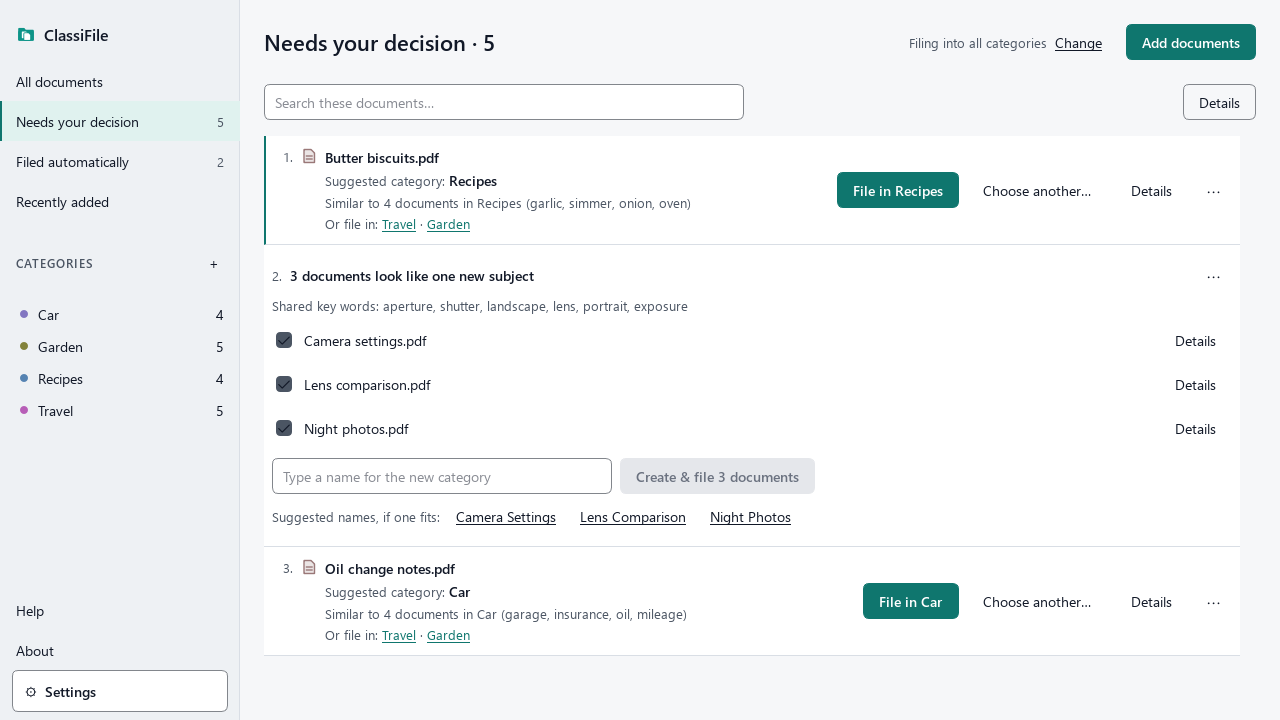
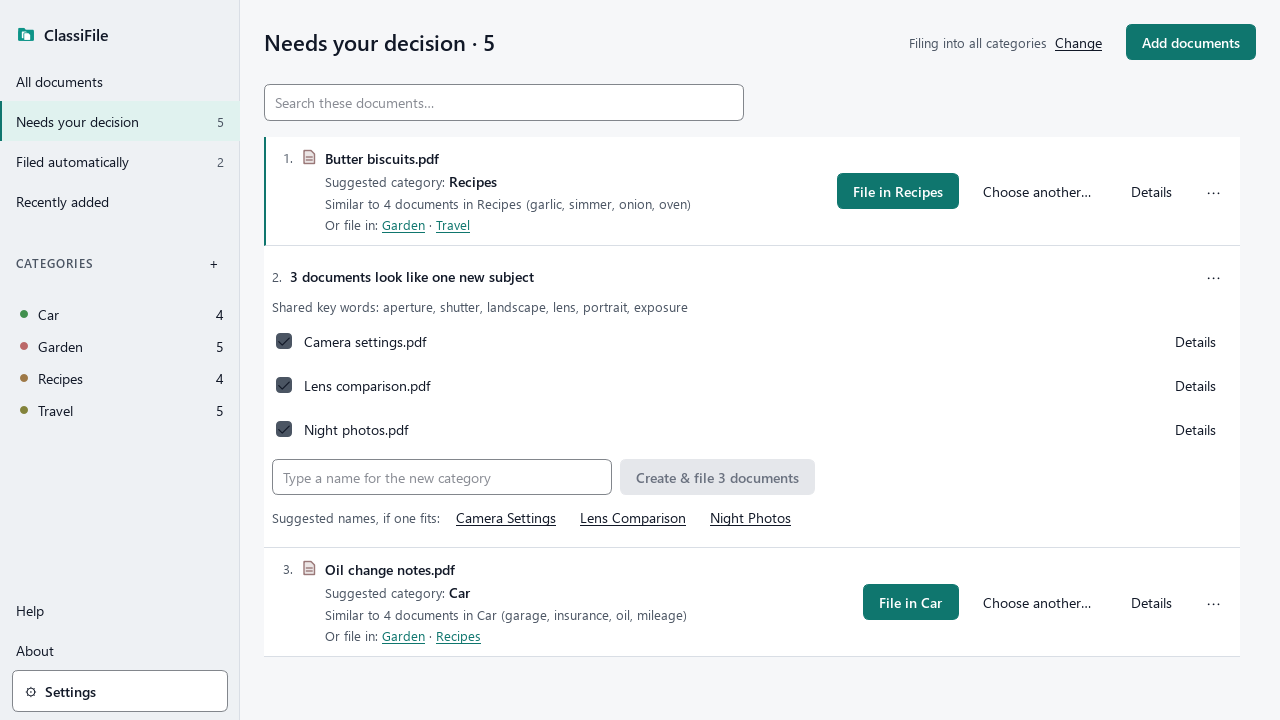
Record 2.11 (text fills its card), distinct category colours, current screenshots
- A10: every page uses the full window width, and text fills its card;
  "readable line length" withdrawn. Authorized by the owner.
- Category dots take their colour from the catalog's creation order, so the
  first eight categories always differ (the hash of the random id often
  gave two the same). A rename keeps the colour.
- README screenshots rendered again from the made-up library.
- Local agent tooling (.agents/, .claude/, AGENTS.md, skills-lock.json) is
  ignored.

diff --git a/classifile/app/models.py b/classifile/app/models.py
@@ -76,7 +76,7 @@ class DocumentModel(RowsModel):
             return (r["file_name"], r["category"] or "—", status_word(status), r["date"])[column]
         if role == Qt.DecorationRole:
             if column == 1:
-                return category_dot(r["category_id"]) if r.get("category_id") else None
+                return category_dot(r["category_slot"]) if r.get("category_slot") else None
             return format_icon(r["file_name"]) if column == 0 else status_icon(status) if column == 2 else None
         if role == Qt.ToolTipRole:
             return r["file_name"] if column == 0 else (r.get("status_reason") or None) if column == 2 else None
@@ -161,7 +161,7 @@ class CategoryModel(RowsModel):
         if role == Qt.ToolTipRole:
             return r["name"] + ("\nNew (named by ClassiFile). Right-click to rename it." if r.get("new") else "")
         if role == Qt.DecorationRole and column == 0:
-            return category_dot(r["key"])           # the category's own colour, the same everywhere
+            return category_dot(r["slot"])          # the category's own colour, the same everywhere
         if role == Qt.TextAlignmentRole and column == 1:
             return int(Qt.AlignRight | Qt.AlignVCenter)
         if role == Qt.ForegroundRole and column == 1:

diff --git a/classifile/catalog/db.py b/classifile/catalog/db.py
@@ -373,7 +373,7 @@ class Catalog:
             " JOIN snapshots s ON s.document_id = d.id WHERE d.id = ?", doc_id)
 
     _FILED = ("SELECT d.*, s.sha256, s.file_name, s.imported_at, s.source_path, c.id AS category_id,"
-              " c.name AS category, c.app_named, m.provenance, m.auto_json, m.role, (SELECT group_concat(category_id)"
+              " c.rowid AS category_slot, c.name AS category, c.app_named, m.provenance, m.auto_json, m.role, (SELECT group_concat(category_id)"
               " FROM memberships WHERE document_id = d.id AND role = 'secondary' AND status = 'active') AS also_ids,"
               " p.path AS copy_path,"
               " p.status AS copy_status, p.updated_at AS filed_at FROM documents d"
@@ -568,7 +568,7 @@ class Catalog:
 
     # -- categories --------------------------------------------------------------------------
     def categories(self):
-        return self.all("SELECT * FROM categories WHERE deleted_at IS NULL ORDER BY name COLLATE NOCASE, id")
+        return self.all("SELECT *, rowid AS slot FROM categories WHERE deleted_at IS NULL ORDER BY name COLLATE NOCASE, id")
 
     def category_counts(self):
         """{category id: documents in it}."""

diff --git a/classifile/app/widgets.py b/classifile/app/widgets.py
@@ -1,6 +1,5 @@
 """Small shared widgets and the visual style of the main window."""
 import sys
-import zlib
 from pathlib import Path
 
 from PySide6.QtCore import (
@@ -454,15 +453,15 @@ def status_icon(status):
     return _ICONS[key]
 
 
-def category_color(cat_id):
-    """A category's colour: one of CATEGORY_COLORS, the same for that category always (from its id, so a rename
-    keeps it), readable on every surface of both themes."""
-    return CATEGORY_COLORS[zlib.crc32(str(cat_id).encode()) % len(CATEGORY_COLORS)]
+def category_color(slot):
+    """A category's colour: one of CATEGORY_COLORS, from its slot (the catalog's creation order, so a rename keeps
+    it and the first eight categories all differ), readable on every surface of both themes."""
+    return CATEGORY_COLORS[(slot - 1) % len(CATEGORY_COLORS)]
 
 
-def category_dot(cat_id):
+def category_dot(slot):
     """A small round dot in the category's colour, beside its name."""
-    colour = category_color(cat_id)
+    colour = category_color(slot)
     key = ("dot", colour)
     if key not in _ICONS:
         pix = QPixmap(ICON, ICON)

diff --git a/tests/test_theme.py b/tests/test_theme.py
@@ -119,8 +119,8 @@ def test_switching_the_theme_rebuilds_the_style_sheet_the_palette_and_the_icons(
         assert w.table.palette().text().color().name().upper() == t["text"]       # the Fusion lists too
         icon = widgets.status_icon("needs_decision").pixmap(16, 16).toImage()
         assert icon.pixelColor(8, 8).name().upper() == t["amber"]                 # drawn again in the new colours
-    assert widgets.category_dot("same id").cacheKey() and widgets.category_color("same id") == \
-        widgets.category_color("same id") in CATEGORY_COLORS                      # one colour per category, always
+    assert widgets.category_dot(3).cacheKey() and widgets.category_color(3) == widgets.category_color(3)
+    assert len({widgets.category_color(s) for s in range(1, 9)}) == 8 == len(CATEGORY_COLORS)  # the first 8 differ
     w.set_appearance("system")
     w.close()
 

diff --git a/classifile/app/main.py b/classifile/app/main.py
@@ -1006,7 +1006,7 @@ class MainWindow(QWidget):
         """The sidebar's categories with their counts, from two queries, updated in place. Returns the categories."""
         counts = self.org.catalog.category_counts()
         cats = self.org.catalog.categories()
-        self.cat_model.sync([{"key": c["id"], "name": c["name"], "count": counts.get(c["id"], 0),
+        self.cat_model.sync([{"key": c["id"], "name": c["name"], "count": counts.get(c["id"], 0), "slot": c["slot"],
                               "new": bool(c["app_named"])} for c in cats])
         self.cats_empty.setVisible(not cats)
         many = len(cats) >= FIND_CATEGORY_FROM

diff --git a/DECISION_RECORD.md b/DECISION_RECORD.md
@@ -1,6 +1,6 @@
 # Decision Record — ClassiFile (Offline Document Organizer)
 
-Version 2.10 · 2026-10-16
+Version 2.11 · 2026-10-19
 
 **Names**
 - **ClariFile:** the suite.
@@ -105,7 +105,7 @@ Version 2.10 · 2026-10-16
 
 **A10 [Requirement] Interface**
 - Categories, categorized documents, minimal status, and decision prompts when necessary.
-- For people other than the owner (2.9): a first-run tour of 3–4 short steps, a Help page and an About page (what ClassiFile is, how it works, privacy, the ClariFile suite and SummarEase, the version, licences and credits, the source link). Every page uses the full window width while text keeps a readable line length; the same Details panel is on every page that lists documents; Settings keeps technical details (matching versions, logs, version numbers) in a collapsed Advanced section.
+- For people other than the owner (2.9): a first-run tour of 3–4 short steps, a Help page and an About page (what ClassiFile is, how it works, privacy, the ClariFile suite and SummarEase, the version, licences and credits, the source link). Every page uses the full window width, and text fills its card (2.11); the same Details panel is on every page that lists documents; Settings keeps technical details (matching versions, logs, version numbers) in a collapsed Advanced section.
 - ClassiFile's scope is suggesting category names and filing documents. It offers no text viewing, copying or exporting; those belong to SummarEase (A11).
 
 **A11 [Requirement] Secondary summarizer: SummarEase (later project)**
@@ -555,3 +555,4 @@ Partial checkpoints are not the completed v1. Evaluation runs alongside developm
 - **2.8 (2026-10-15):** wording the user approved before the CP5 freeze, so the record says what the code does. A7: the update check (a new version replaces the one in use only if, on the full evaluation, it files no more documents wrongly at the level in use and puts the user's category first no less often; both results logged in Settings). B4: one evaluation (`tools.evaluate`) for every number about matching, with the owner's family ids kept in the catalog. B2: "Check these" (Keep here is recorded; nothing is moved by itself). D/CP4: the documented policy (E1) is not built for v1; E5–E7 run on their defaults (also noted under E5–E7). Authorized by the user.
 - **2.9 (2026-10-15):** v1 scope for friends and family, authorized by the user. A7: the first matching version is learned by itself too. B5 and the glossary: "Learn from my existing folders", with the user-example provenance; examples count toward the 3 documents of automatic filing (B2). A10: a first-run tour, Help and About pages, full-width pages with readable text, the same Details panel on every page that lists documents, and an Advanced section in Settings. Photos (JPG, PNG), a household test set and Burmese are v1.1 (docs/LAUNCH.md). Authorized by the user.
 - **2.10 (2026-10-16):** CP5 freeze (D/CP5): matching version 6, Strict with the 3 confirmed documents, the folder rules (3 documents at 0.20; questions at 0.15; a single document waits), the update check and "Check these" as in 2.8; the final evaluation runs once with the frozen version on a catalog copy (`tools.final_eval`). Authorized by the user (the list in docs/LAUNCH.md section 1).
+- **2.11 (2026-10-19):** A10: every page uses the full window width, and text fills its card; the 2.9 wording "text keeps a readable line length" is withdrawn. Authorized by the user.
